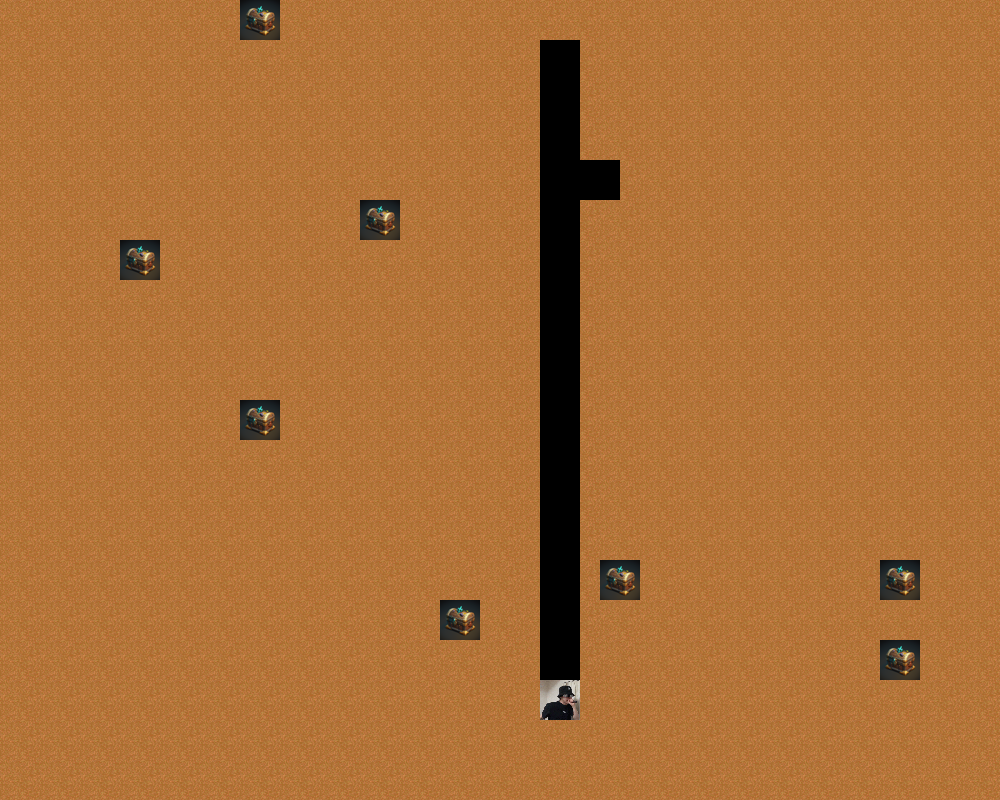
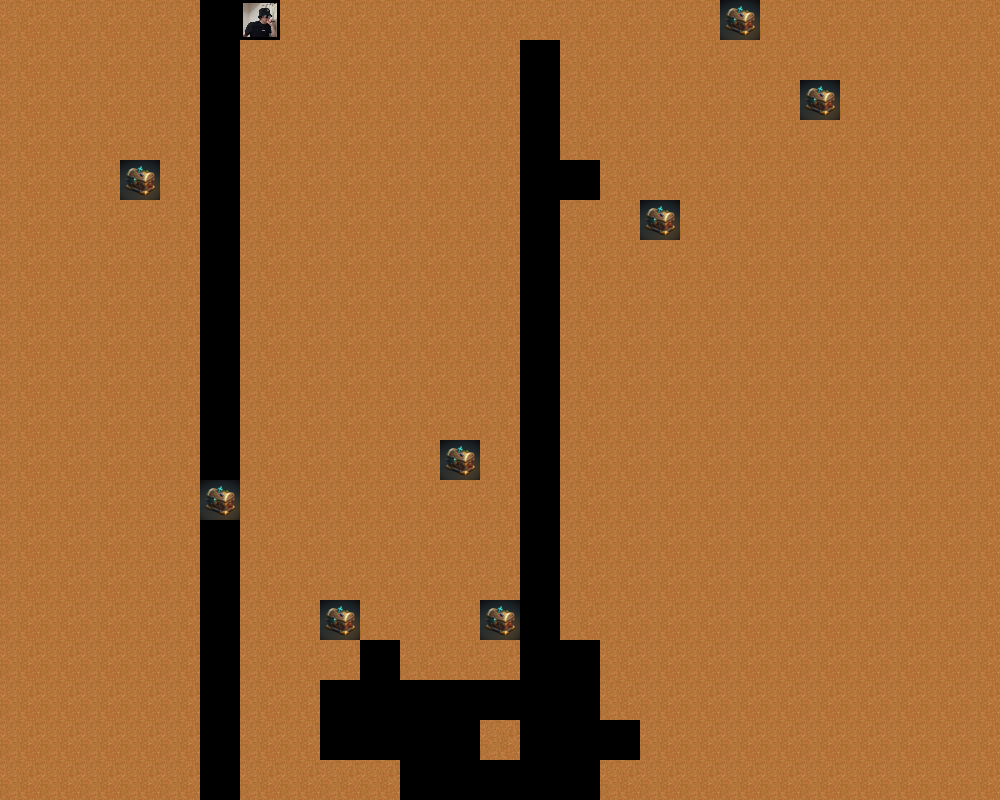
ganbatta

diff --git a/MinerGame-master/assets/cogs/database/database.py b/MinerGame-master/assets/cogs/database/database.py
@@ -3,6 +3,7 @@ from PIL import Image
 import io
 import requests
 import random
+from .player import Player
 
 IMG_PATH = "C:/Users/it0_s/PycharmProjects/MinerGame-master/MinerGame-master/assets/img"
 DB_PATH = "C:/Users/it0_s/PycharmProjects/MinerGame-master/MinerGame-master/assets/db/mine.db"
@@ -13,17 +14,16 @@ BG_TMP_PATH = f'{IMG_PATH}/background_tmp.png'
 TREASUREBOX_PATH = f'{IMG_PATH}/treasure_box.png'
 
 
-class Mine:
+class Mine(Player):
     def __init__(self, ctx=None, interaction=None):
-        self.ctx = ctx
-        self.interaction = interaction
-        self.user_id = self.ctx.author.id if self.ctx else self.interaction.user.id if self.interaction else None
-        self.user = self.ctx.author if self.ctx else self.interaction.user if self.interaction else None
+        super().__init__(ctx, interaction)
+        self.none_img = Image.open(NONE_PATH)
+        self.treasure_box_img = Image.open(TREASUREBOX_PATH)
 
     async def player_mine(self, user_id: int, m_x: int, m_y: int, conn, cur):
         try:
             is_mine = "一マス移動しました！"
-            x, y, layer = await self.get_player_position(user_id, conn, cur)
+            x, y, layer = await self.get_player_position(conn, cur)
 
             if m_x + x >= 20:
                 return (x, y), "横にはこれ以上掘れないよ！", layer
@@ -31,7 +31,7 @@ class Mine:
 
             y, layer = is_change_layer(y, m_y, layer)
 
-            mines = await self.get_player_mine(user_id, layer, cur)
+            mines = await self.get_player_mine(layer, cur)
             await self.make_terrain((x, y), mines, layer)
 
             if not (x, y) in mines:
@@ -58,62 +58,40 @@ class Mine:
             for m_x, m_y in mines:
                 mine_pos.append((m_x, m_y))
             none_img = Image.open(NONE_PATH)
+            img = Image.open(io.BytesIO(requests.get(self.user.display_avatar).content))
+            img = img.resize((34, 34))
             t_img = Image.open(TREASUREBOX_PATH)
             t_img = t_img.resize((40, 40))
             background_img = change_background(layer)
 
-            i_x = none_img.width - 8
-            i_y = none_img.height - 8
-            none_img = none_img.resize((i_x, i_y))
             if mine_pos:
                 for x, y in mine_pos:
-                    x_pos = 500 + x * 40  # 真ん中なので1000の2割った500からスタート
+                    x_pos = 480 + x * 40
                     y_pos = y * 40
                     background_img.paste(none_img, (x_pos, y_pos))
 
             treasure_pos = generate_treasure_point()
             for t_pos in treasure_pos:
-                t_pos[0] *= 40
-                t_pos[1] *= 40
-                background_img.paste(t_img, t_pos)
+                x = int(t_pos[0] * 40)
+                y = int(t_pos[1] * 40)
+                background_img.paste(t_img, (x, y))
 
-            x = pos[0] * 40 + 500
-            y = pos[1] * 40
-            self.create_animation(x, y)
+            x = pos[0] * 40 + 480 + 3
+            y = pos[1] * 40 + 3
+            #   self.create_animation("front", x, y)
+            background_img.paste(img, (x, y))
+            background_img.save(f'{IMG_PATH}' + f'/playing_front.png', quality=95)
 
-        except:
-            print("エラー情報\n" + traceback.format_exc())
-
-    async def get_player_position(self, user_id, conn, cur):
-        try:
-            await cur.execute("SELECT x, y, layer FROM position WHERE user_id=?", (user_id,))
-            player = await cur.fetchone()
-            if not player:
-                await cur.execute("INSERT INTO position values(?,?,?,?)", (user_id, 0, 0, 1))
-                await conn.commit()
-                await cur.execute("INSERT INTO mine values(?,?,?,?)", (user_id, 0, 0, 1))
-                await conn.commit()
-                return 0, 0, 1
-            return player
-        except:
-            print("エラー情報\n" + traceback.format_exc())
-
-    async def get_player_mine(self, user_id, layer, cur):
-        try:
-            await cur.execute("SELECT x, y FROM mine WHERE user_id=? AND layer=?", (user_id, layer))
-            player = await cur.fetchall()
-            return player
         except:
             print("エラー情報\n" + traceback.format_exc())
 
 
 def is_change_layer(y, m_y, layer):
-    judge = y + m_y > 19 if layer == 1 else y + m_y > 20
-    if judge:
+    if y + m_y > 19:  # 20を突破するなら
         layer += 1
-        y %= 19
+        y = 0
     elif y + m_y < 0:
-        y = 20
+        y = 19
         layer -= 1
     else:
         y += m_y

diff --git a/MinerGame-master/assets/cogs/database/player.py b/MinerGame-master/assets/cogs/database/player.py
@@ -1,0 +1,28 @@
+class Player:
+    def __init__(self, ctx=None, interaction=None):
+        self.ctx = ctx
+        self.interaction = interaction
+        self.user_id = self.ctx.author.id if self.ctx else self.interaction.user.id if self.interaction else None
+        self.user = self.ctx.author if self.ctx else self.interaction.user if self.interaction else None
+
+    async def get_player_position(self, conn, cur):
+        await cur.execute("SELECT x, y, layer FROM position WHERE user_id=?", (self.user_id,))
+        player = await cur.fetchone()
+        if not player:
+            await cur.execute("INSERT INTO position values(?,?,?,?)", (self.user_id, 0, 0, 1))
+            await conn.commit()
+            await cur.execute("INSERT INTO mine values(?,?,?,?)", (self.user_id, 0, 0, 1))
+            await conn.commit()
+            return 0, 0, 1
+        return player
+
+    async def get_player_mine(self, layer, cur):
+        if layer:
+            await cur.execute("SELECT x, y FROM mine WHERE user_id=? AND layer=?", (self.user_id, layer))
+            player = await cur.fetchall()
+            return player
+        else:
+            await cur.execute("SELECT x, y FROM mine WHERE user_id=?", self.user_id)
+            player = await cur.fetchall()
+            return player
+

diff --git a/MinerGame-master/assets/cogs/command.py b/MinerGame-master/assets/cogs/command.py
@@ -3,7 +3,7 @@ from discord.ext import commands
 from discord import app_commands
 from colorama import Fore
 from aiosqlite import connect
-from .database import button, database
+from .database import button, database, warp, player
 import traceback
 
 IMG_PATH = "C:/Users/it0_s/PycharmProjects/MinerGame-master/MinerGame-master/assets/img"
@@ -38,7 +38,7 @@ class test(commands.Cog):
         try:
             Mine = database.Mine(ctx=ctx)
             user_id = ctx.author.id
-            fname = "playing_front.png"
+            fname = f"playing_front.png"
 
             async with connect(DB_PATH) as conn:
                 async with conn.cursor() as cur:
@@ -54,6 +54,14 @@ class test(commands.Cog):
         except:
             return print("エラー情報\n" + traceback.format_exc())
 
+    @commands.command(name='teleport', alias=["w", "wp", "tp"])
+    @commands.cooldown(1, 8, type=commands.BucketType.user)
+    async def teleport(self, ctx):
+        try:
+            pass
+
+        except:
+            return print("エラー情報\n" + traceback.format_exc())
     @commands.command(name='inventory', alias=["inv", "i"])
     @commands.cooldown(1, 8, type=commands.BucketType.user)
     async def inventory(self, ctx):

diff --git a/MinerGame-master/assets/cogs/database/warp.py b/MinerGame-master/assets/cogs/database/warp.py
@@ -1,0 +1,20 @@
+import traceback
+from PIL import Image
+import io
+import requests
+import random
+from .player import Player
+
+IMG_PATH = "C:/Users/it0_s/PycharmProjects/MinerGame-master/MinerGame-master/MinerGame-master/assets/img"
+DB_PATH = "C:/Users/it0_s/PycharmProjects/MinerGame-master/MinerGame-master/assets/db/mine.db"
+BG_0_PATH = f'{IMG_PATH}/background_0.png'
+BG_1_PATH = f'{IMG_PATH}/background_1.png'
+NONE_PATH = f'{IMG_PATH}/none.png'
+BG_TMP_PATH = f'{IMG_PATH}/background_tmp.png'
+TREASUREBOX_PATH = f'{IMG_PATH}/treasure_box.png'
+
+
+class Warp(Player):
+    def __init__(self, ctx=None, interaction=None):
+        super().__init__(ctx, interaction)
+

diff --git a/MinerGame-master/assets/cogs/database/create_database.py b/MinerGame-master/assets/cogs/database/create_database.py
@@ -33,5 +33,8 @@ async def create_database():
             await cur.execute("CREATE TABLE IF NOT EXISTS mine(user_id BIGINT(20), x INT, y INT, layer INT)")
             await conn.commit()
 
+            # テーブル名:『treasure』カラム内容: ユーザーID 整数値, x 整数値, y 整数値, layer 階層
+            await cur.execute("CREATE TABLE IF NOT EXISTS treasure(user_id BIGINT(20), x INT, y INT, layer INT)")
+            await conn.commit()
 
 asyncio.run(create_database())

diff --git a/MinerGame-master/assets/cogs/database/button.py b/MinerGame-master/assets/cogs/database/button.py
@@ -17,7 +17,7 @@ class Confirm(discord.ui.View):
     async def embed_response(self, interaction, x, y):
         user_id = interaction.user.id
         Mine = database.Mine(interaction=interaction)
-        fname = "playing_front.png"
+        fname = f"playing_front.png"
         async with connect(DB_PATH) as conn:
             async with conn.cursor() as cur:
                 depth, mine_text, layer = await Mine.player_mine(user_id, x, y, conn, cur)
